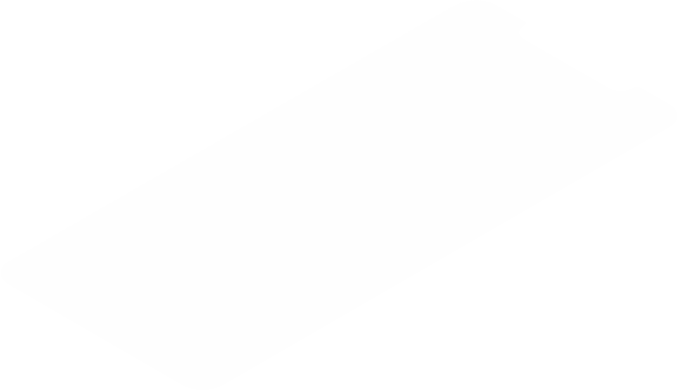
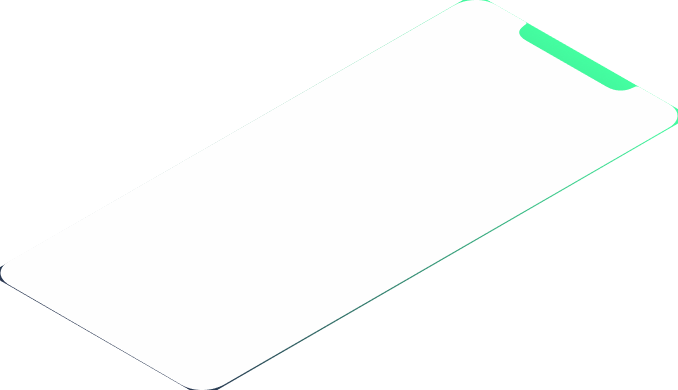
Update 2

diff --git a/index.html b/index.html
@@ -17,18 +17,19 @@
     <h1>
         Data tailored to your needs.
     </h1>
-    <a href="#">
+    <a target="_blank" href="https://www.youtube.com">
         Learn more
     </a>
+    </div>
+    </div>
     <div class="phone">
-    <img class="white-rectangle" src="./image/Change This Copy 2.png" alt="">
-        <!-- <img class="green-thing" src="./image/Change This.png" alt="">
+    <!-- <img class="white-rectangle" src="./image/Change This Copy 2.png" alt=""> -->
+        <img class="green-thing" src="./image/Change This.png" alt="">
         <img class="white-and-violet" src="./image/Group 6.png" alt="">
         <img class="phone" src="./image/iPhone 11 Pro Max.png" alt="">
         <img class="white-mask" src="./image/Mask.png" alt="">
-        <img class="green-grafic" src="./image/Path 3 (Stroke).png" alt=""> -->
+        <!-- <img class="green-grafic" src="./image/Path 3 (Stroke).png" alt=""> -->
     </div>
-    </div>
-    </div>
+
 </body>
 </html>

diff --git a/css/main.css b/css/main.css
@@ -38,30 +38,35 @@ a {
 
 .white-rectangle {
     position: absolute;
-    top: 500px; left: 500px;
+    top: 0px; left: 325px;
 }
 
 .green-thing {
     position: absolute;
-    top: 400px; left: 400px;
+    top: 155px; left: 315px;
+    z-index: 20;
+    width: 100%;
 }
 
 .white-and-violet {
     position: absolute;
-    top: 400px; left: 400px;
+    top: 200px; left: 650px;
+    z-index: 20;
 }
 
 .phone {
     position: absolute;
-    top: 400px; left: 400px;
+    top: 150px; left: 300px;
 }
 
 .white-mask {
     position: absolute;
-    top: 400px; left: 400px;
+    top: 155px; left: 315px;
+    z-index: 19;
+
 }
 
 .green-grafic {
     position: absolute;
-    top: 400px; left: 400px;
+    top: 0px; left: 325px;
 }
